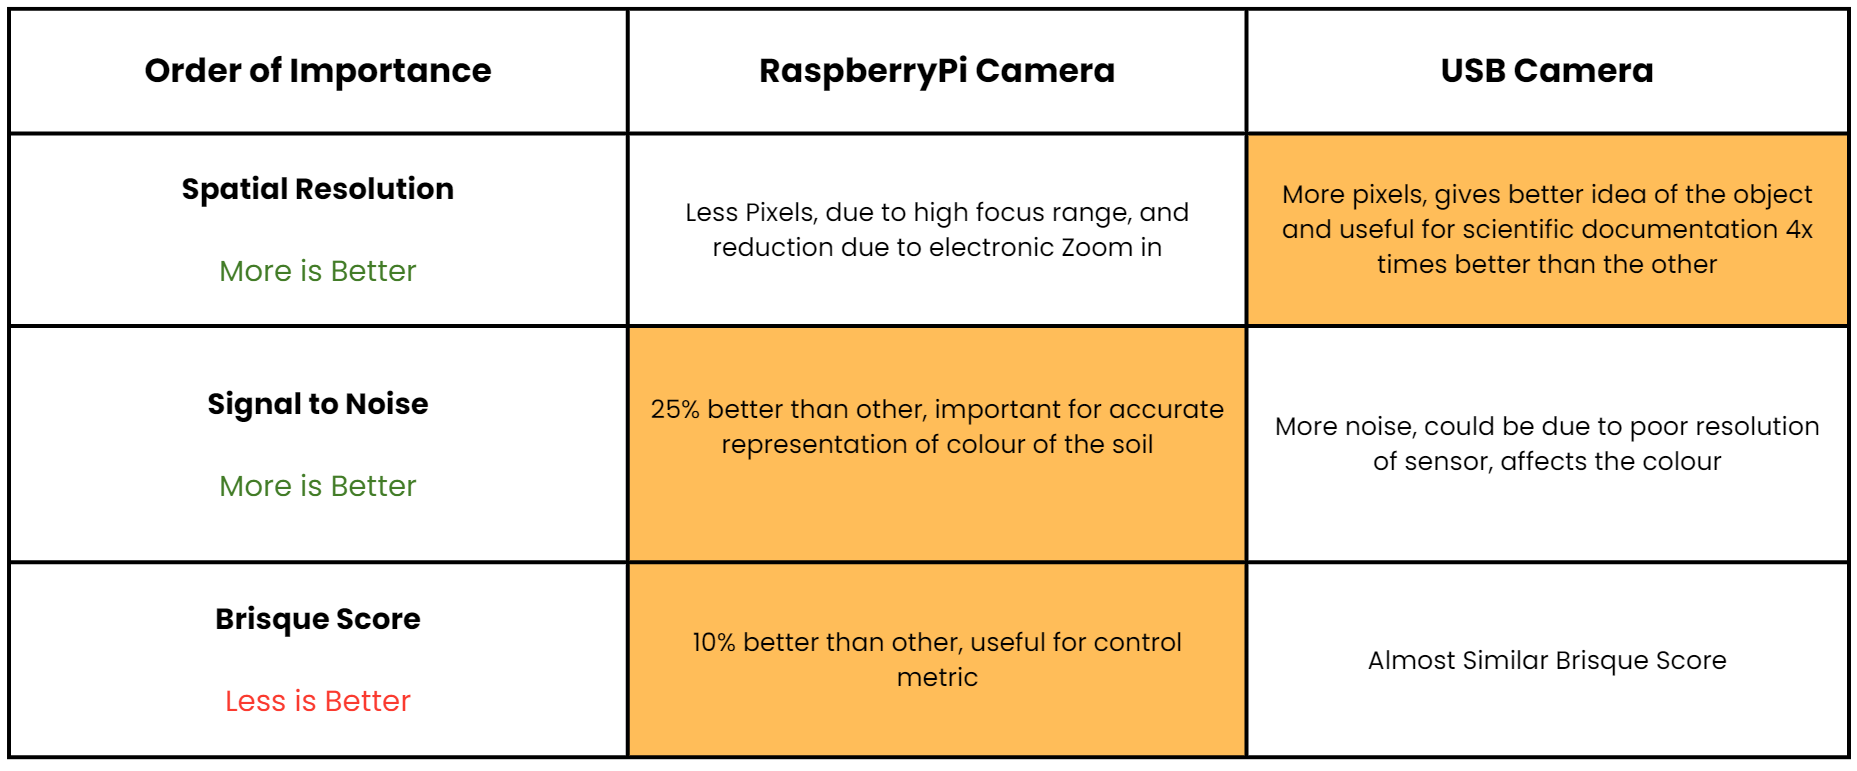
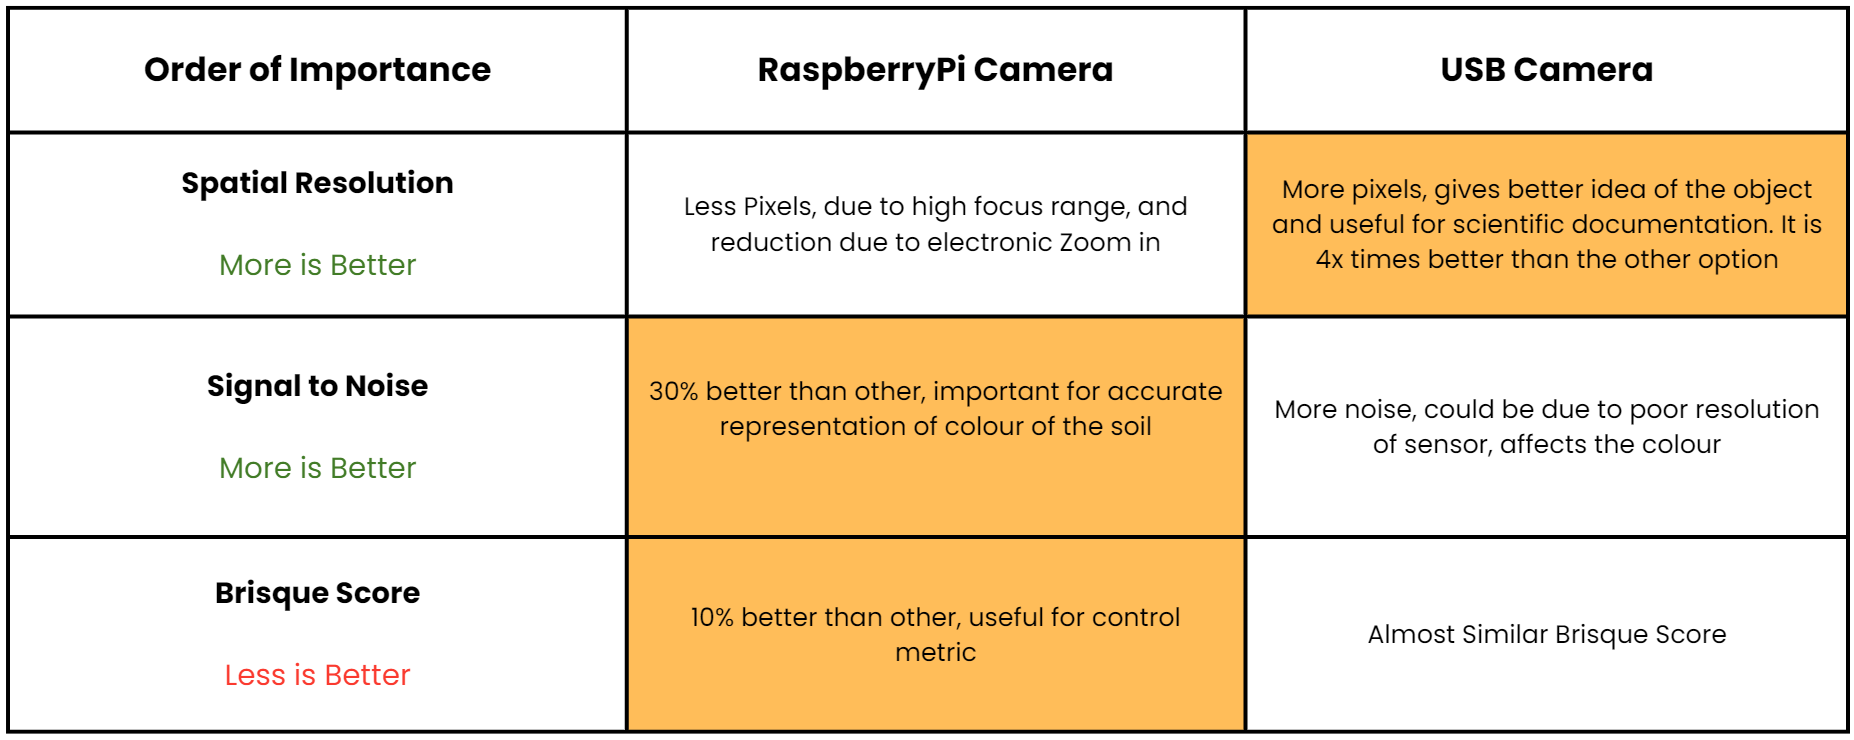
Finished testing and analysis

diff --git a/vision/index.html b/vision/index.html
@@ -42,9 +42,9 @@
     
         <p><b>From these value propositions, the following design statements can be obtained to design an integrated camera system that can:</b></p>
         
-        <p><b>Design statement (1): </b>It combines panoramic vision with targeted close-up capabilities to support each phase of the scientific investigation process.</p>
+        <p><b>Design statement (1): </b>It combines panoramic vision to support each phase of the scientific investigation process, such as providing accurate images for stratigraphic profiles.</p>
     
-        <p><b>Design statement (2): </b>The system will enable team to document geological context, provide accurate images for stratigraphic profiles, and precisely identify optimal sampling locations.</p>
+        <p><b>Design statement (2): </b>The system will enable team to document geological context, the soil details and precisely identify optimal sampling locations.</p>
             
         <p><b>Design statement (3): </b>By automating scale calculations and location documentation, the design allows operators to focus on scientific analysis rather than technical operation, maximizing the scientific return from each collected sample.</p>
     </div>
@@ -339,6 +339,10 @@
             To quantitatively compare image quality without relying on reference images, we will employ the Blind/Referenceless Image Spatial Quality Evaluator (BRISQUE) algorithm. BRISQUE offers advantages over other no-reference metrics as it operates in the spatial domain, providing faster computation and better correlation with human perception of image quality (Mittal et al., 2012). This method will provide objective quality scores for images captured by both cameras, helping us evaluate their performance in documenting geological features under real-world conditions.
         </p>
 
+        <p>
+            In order to compare the difference between the two methodologies, a standardised test was conducted where they are aiming to focus on word 'I2C'. The results can be seen in the Table below:
+        </p>
+
         <image-component 
         tag="image" 
         source="../assets/vis_test_tab_2.png"
@@ -346,7 +350,7 @@
         </image-component>
 
         <p>
-            TODO: Add the inroduction for analysis of the table.
+            After getting the quatifiable results for each category, an analysis was done to see which camera is better. The results can be seen in the Table below:
         </p>
 
         <image-component 
@@ -356,15 +360,53 @@
         </image-component>
 
         <p>
-            TODO: Add conclusion for this table.
+            Our testing has revealed a key challenge: while the RaspberryPi Camera Module 3 NoIR excels in color accuracy and noise handling, and the USB Digital Microscope provides superior spatial resolution, neither solution fully optimizes both critical parameters. This suggests the need to explore alternative solutions that could better balance these requirements.
         </p>
+        <h3>
+            Potential Alternative: Raspberry Pi HQ Camera with Telephoto Lens
+        </h3>
 
-        <h3>2.4.2 Testing of Site Identification using CNN</h3>
+        <image-component 
+        tag="image" 
+        source="../assets/vis_test_fig_1.png"
+        subtitle="Figure : Raspberry Pi HQ Camera with telephoto lens">
+        </image-component>
+
+        <p>
+            The Raspberry Pi HQ Camera with an 8mm telephoto lens presents a promising alternative that could address our current limitations:
+        </p>
+        <ul>
+                <li>Higher base resolution (12.3MP Sony IMX477 sensor)</li>
+                <li>Larger sensor size (7.9mm diagonal vs 6.287mm)</li>
+                <li>Interchangeable lens capability</li>
+                <li>C/CS-mount lens compatibility offering greater optical flexibility</li>
+                <li>Better low-light performance due to larger pixel size (1.55μm vs 1.4μm)</li>
+        </ul>
+        <h3>Other Potential Solutions to Consider</h3>
+        <p>
+            Alternative approaches that could be investigated include:
+        </p>
+        <ul>
+                <li>Industrial machine vision cameras with dedicated macro lenses</li>
+                <li>Implementation of a dual-camera system where each camera is optimized for either spatial resolution or color accuracy</li>
+                <li>Integration of focus stacking software to enhance effective resolution while maintaining color fidelity</li>
+        </ul>
+        </ul>
+        <p>
+            This investigation has highlighted the importance of considering multiple imaging parameters simultaneously when selecting scientific documentation equipment. While our current options each excel in specific areas, the mission's requirements for both high spatial resolution and accurate color reproduction warrant exploration of more capable imaging solutions.
+        </p>        
+
 
     </div>
     
     <div id="Deliverables-Short-Coming">
         <h2>2.5 Deliverables and Short-comings</h2>
+
+        <h3>2.5.1 Deliverables Satisfied</h3>
+
+        <h3>2.5.2 Short-comings</h3>
+
+
     </div>
 
     <div id="Future-Work">
